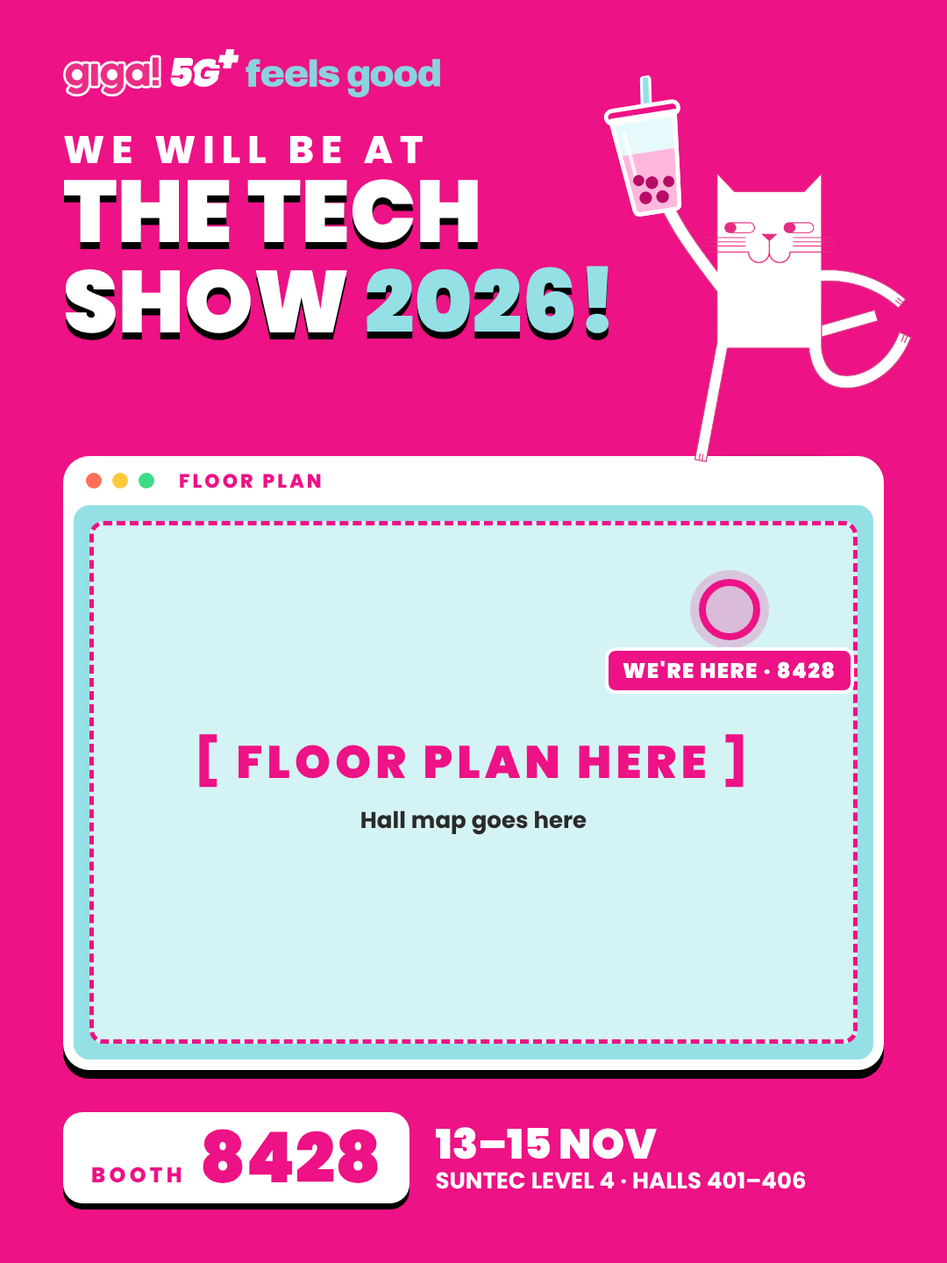
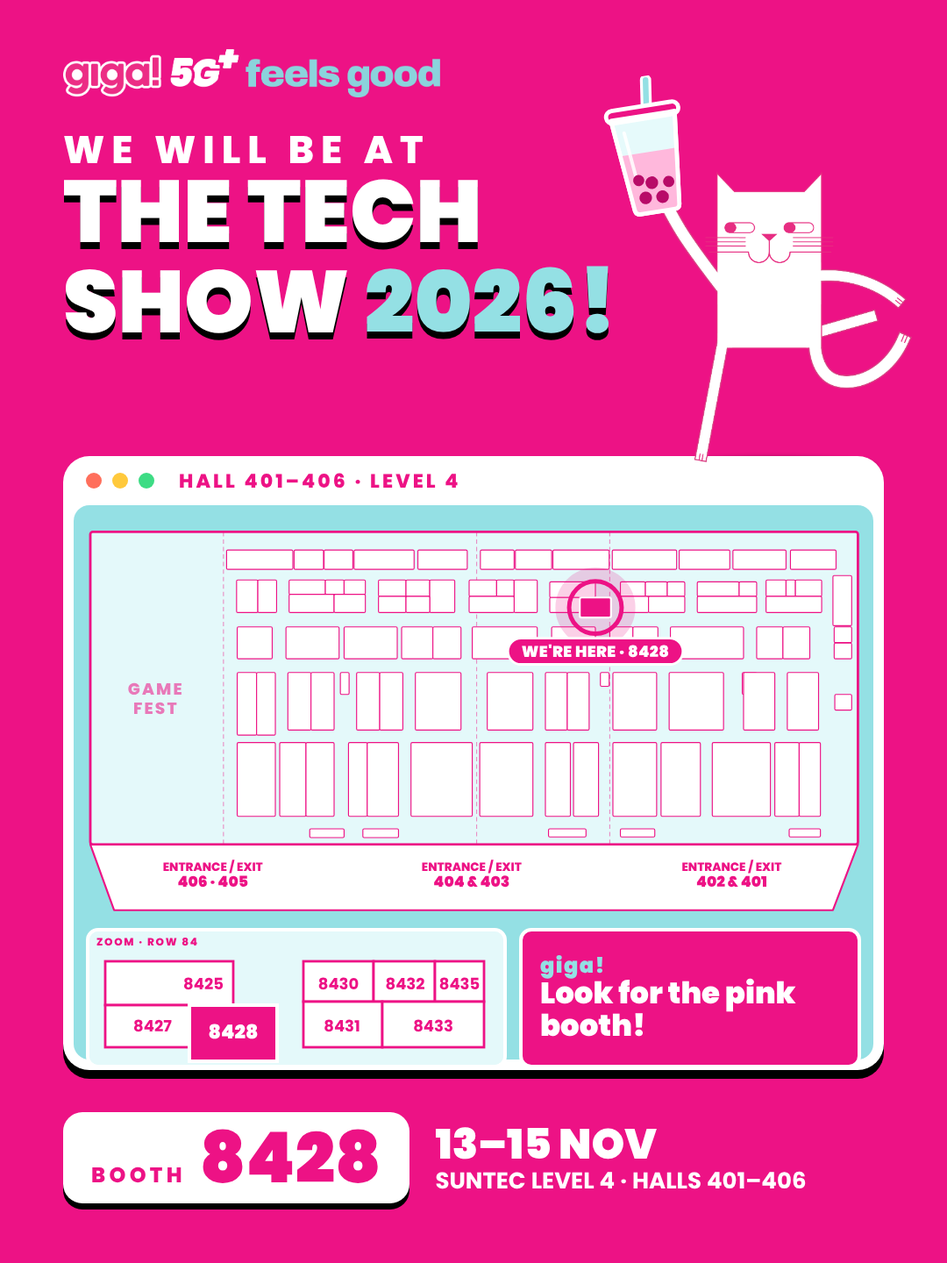
Post 1: redrawn Tech Show hall floor plan with booth 8428 highlighted and zoom inset
Claude-Session: https://claude.ai/code/session_01QpHBCYvf2HgUsT79rZy6ps

Changed region(s): [[0.0917, 0.375, 0.9167, 0.8438]]

diff --git a/giga-tech-show/post-1-find-us.html b/giga-tech-show/post-1-find-us.html
@@ -28,7 +28,15 @@ html,body{background:#ddd}
 .bar i{width:18px;height:18px;border-radius:50%;display:block}
 .bar i:nth-child(1){background:var(--coral)}.bar i:nth-child(2){background:#FFC93C}.bar i:nth-child(3){background:#3DDC84}
 .bar b{margin-left:16px;color:var(--pink);font-weight:800;font-size:22px;letter-spacing:.14em}
-.screen{position:absolute;left:12px;right:12px;top:56px;bottom:12px;background:var(--teal);border-radius:18px;display:flex;align-items:center;justify-content:center}
+.screen{position:absolute;left:12px;right:12px;top:56px;bottom:12px;background:var(--teal);border-radius:18px;padding:14px 14px 12px}
+.hall{display:block;width:100%;height:auto}
+.insetrow{display:flex;gap:14px;margin-top:12px}
+.inset{position:relative;width:480px;border-radius:14px;overflow:hidden;border:4px solid var(--white);background:#E4F9FA;line-height:0}
+.inset .zoom{width:100%;height:auto;display:block}
+.zt{position:absolute;left:8px;top:6px;line-height:1;font-weight:800;font-size:12px;letter-spacing:.14em;color:var(--pink);z-index:2}
+.legend{flex:1;background:var(--pink);color:var(--white);border-radius:14px;border:4px solid var(--white);display:flex;flex-direction:column;justify-content:center;padding:0 20px;font-weight:900;font-size:34px;line-height:1.1}
+.legend b{font-size:24px;letter-spacing:.06em;color:var(--teal)}
+.legend small{font-weight:700;font-size:20px;margin-top:6px}
 .ph{width:calc(100% - 36px);height:calc(100% - 36px);border:5px dashed var(--pink);border-radius:16px;background:rgba(255,255,255,.6);display:flex;flex-direction:column;align-items:center;justify-content:center;text-align:center;color:var(--pink)}
 .ph strong{font-weight:900;font-size:52px;letter-spacing:.1em}
 .ph span{font-weight:700;font-size:26px;color:#2a2a2a;margin-top:8px}
@@ -68,10 +76,117 @@ html,body{background:#ddd}
   </svg>
 
   <div class="window" data-placeholder="floor-plan">
-    <div class="bar"><i></i><i></i><i></i><b>FLOOR PLAN</b></div>
-    <div class="screen"><div class="ph"><strong>[ FLOOR PLAN HERE ]</strong><span>Hall map goes here</span></div></div>
+    <div class="bar"><i></i><i></i><i></i><b>HALL 401–406 · LEVEL 4</b></div>
+    <div class="screen">
+<svg class="hall" viewBox="55 62 1240 640" width="1240" height="640"><rect x="62" y="85" width="1228" height="500" fill="#E4F9FA" stroke="#ED1285" stroke-width="4" rx="4"/>
+<g stroke="#ED1285" stroke-width="1.6" stroke-dasharray="7 5" opacity=".45"><path d="M275 85V585M680 85V585M893 85V585"/></g>
+<text x="167" y="345" text-anchor="middle" font-family="Poppins" font-weight="800" font-size="26" letter-spacing="3" fill="#ED1285" opacity=".55">GAME</text><text x="167" y="376" text-anchor="middle" font-family="Poppins" font-weight="800" font-size="26" letter-spacing="3" fill="#ED1285" opacity=".55">FEST</text>
+<rect x="280" y="114" width="106" height="31" fill="#fff" stroke="#ED1285" stroke-width="1.6" rx="2"/>
+<rect x="388" y="114" width="47" height="31" fill="#fff" stroke="#ED1285" stroke-width="1.6" rx="2"/>
+<rect x="436" y="114" width="46" height="31" fill="#fff" stroke="#ED1285" stroke-width="1.6" rx="2"/>
+<rect x="484" y="114" width="96" height="31" fill="#fff" stroke="#ED1285" stroke-width="1.6" rx="2"/>
+<rect x="586" y="114" width="79" height="31" fill="#fff" stroke="#ED1285" stroke-width="1.6" rx="2"/>
+<rect x="686" y="114" width="54" height="31" fill="#fff" stroke="#ED1285" stroke-width="1.6" rx="2"/>
+<rect x="742" y="114" width="58" height="31" fill="#fff" stroke="#ED1285" stroke-width="1.6" rx="2"/>
+<rect x="802" y="114" width="90" height="31" fill="#fff" stroke="#ED1285" stroke-width="1.6" rx="2"/>
+<rect x="897" y="114" width="103" height="31" fill="#fff" stroke="#ED1285" stroke-width="1.6" rx="2"/>
+<rect x="1004" y="114" width="81" height="31" fill="#fff" stroke="#ED1285" stroke-width="1.6" rx="2"/>
+<rect x="1090" y="114" width="85" height="31" fill="#fff" stroke="#ED1285" stroke-width="1.6" rx="2"/>
+<rect x="1182" y="114" width="73" height="31" fill="#fff" stroke="#ED1285" stroke-width="1.6" rx="2"/>
+<rect x="296" y="162" width="34" height="52" fill="#fff" stroke="#ED1285" stroke-width="1.6" rx="2"/>
+<rect x="330" y="162" width="30" height="52" fill="#fff" stroke="#ED1285" stroke-width="1.6" rx="2"/>
+<rect x="380" y="162" width="58" height="23" fill="#fff" stroke="#ED1285" stroke-width="1.6" rx="2"/>
+<rect x="438" y="162" width="30" height="23" fill="#fff" stroke="#ED1285" stroke-width="1.6" rx="2"/>
+<rect x="468" y="162" width="34" height="23" fill="#fff" stroke="#ED1285" stroke-width="1.6" rx="2"/>
+<rect x="380" y="185" width="72" height="29" fill="#fff" stroke="#ED1285" stroke-width="1.6" rx="2"/>
+<rect x="452" y="185" width="50" height="29" fill="#fff" stroke="#ED1285" stroke-width="1.6" rx="2"/>
+<rect x="523" y="162" width="44" height="26" fill="#fff" stroke="#ED1285" stroke-width="1.6" rx="2"/>
+<rect x="567" y="162" width="38" height="26" fill="#fff" stroke="#ED1285" stroke-width="1.6" rx="2"/>
+<rect x="605" y="162" width="40" height="52" fill="#fff" stroke="#ED1285" stroke-width="1.6" rx="2"/>
+<rect x="523" y="188" width="44" height="26" fill="#fff" stroke="#ED1285" stroke-width="1.6" rx="2"/>
+<rect x="567" y="188" width="38" height="26" fill="#fff" stroke="#ED1285" stroke-width="1.6" rx="2"/>
+<rect x="668" y="162" width="44" height="26" fill="#fff" stroke="#ED1285" stroke-width="1.6" rx="2"/>
+<rect x="712" y="162" width="28" height="26" fill="#fff" stroke="#ED1285" stroke-width="1.6" rx="2"/>
+<rect x="740" y="162" width="37" height="52" fill="#fff" stroke="#ED1285" stroke-width="1.6" rx="2"/>
+<rect x="668" y="188" width="72" height="26" fill="#fff" stroke="#ED1285" stroke-width="1.6" rx="2"/>
+<rect x="797" y="165" width="73" height="25" fill="#fff" stroke="#ED1285" stroke-width="1.6" rx="2"/>
+<rect x="797" y="190" width="48" height="24" fill="#fff" stroke="#ED1285" stroke-width="1.6" rx="2"/>
+<rect x="910" y="165" width="40" height="23" fill="#fff" stroke="#ED1285" stroke-width="1.6" rx="2"/>
+<rect x="950" y="165" width="35" height="23" fill="#fff" stroke="#ED1285" stroke-width="1.6" rx="2"/>
+<rect x="985" y="165" width="28" height="23" fill="#fff" stroke="#ED1285" stroke-width="1.6" rx="2"/>
+<rect x="910" y="188" width="45" height="26" fill="#fff" stroke="#ED1285" stroke-width="1.6" rx="2"/>
+<rect x="955" y="188" width="58" height="26" fill="#fff" stroke="#ED1285" stroke-width="1.6" rx="2"/>
+<rect x="1033" y="165" width="67" height="23" fill="#fff" stroke="#ED1285" stroke-width="1.6" rx="2"/>
+<rect x="1100" y="165" width="28" height="23" fill="#fff" stroke="#ED1285" stroke-width="1.6" rx="2"/>
+<rect x="1033" y="188" width="95" height="26" fill="#fff" stroke="#ED1285" stroke-width="1.6" rx="2"/>
+<rect x="1143" y="162" width="32" height="26" fill="#fff" stroke="#ED1285" stroke-width="1.6" rx="2"/>
+<rect x="1175" y="162" width="15" height="26" fill="#fff" stroke="#ED1285" stroke-width="1.6" rx="2"/>
+<rect x="1190" y="162" width="42" height="26" fill="#fff" stroke="#ED1285" stroke-width="1.6" rx="2"/>
+<rect x="1143" y="188" width="89" height="26" fill="#fff" stroke="#ED1285" stroke-width="1.6" rx="2"/>
+<rect x="297" y="237" width="56" height="51" fill="#fff" stroke="#ED1285" stroke-width="1.6" rx="2"/>
+<rect x="375" y="237" width="85" height="51" fill="#fff" stroke="#ED1285" stroke-width="1.6" rx="2"/>
+<rect x="468" y="237" width="85" height="51" fill="#fff" stroke="#ED1285" stroke-width="1.6" rx="2"/>
+<rect x="560" y="237" width="50" height="51" fill="#fff" stroke="#ED1285" stroke-width="1.6" rx="2"/>
+<rect x="610" y="237" width="45" height="51" fill="#fff" stroke="#ED1285" stroke-width="1.6" rx="2"/>
+<rect x="673" y="237" width="104" height="51" fill="#fff" stroke="#ED1285" stroke-width="1.6" rx="2"/>
+<rect x="800" y="237" width="70" height="51" fill="#fff" stroke="#ED1285" stroke-width="1.6" rx="2"/>
+<rect x="893" y="237" width="37" height="51" fill="#fff" stroke="#ED1285" stroke-width="1.6" rx="2"/>
+<rect x="930" y="237" width="40" height="51" fill="#fff" stroke="#ED1285" stroke-width="1.6" rx="2"/>
+<rect x="990" y="237" width="117" height="51" fill="#fff" stroke="#ED1285" stroke-width="1.6" rx="2"/>
+<rect x="1128" y="237" width="42" height="51" fill="#fff" stroke="#ED1285" stroke-width="1.6" rx="2"/>
+<rect x="1170" y="237" width="43" height="51" fill="#fff" stroke="#ED1285" stroke-width="1.6" rx="2"/>
+<rect x="297" y="310" width="31" height="100" fill="#fff" stroke="#ED1285" stroke-width="1.6" rx="2"/>
+<rect x="328" y="310" width="30" height="100" fill="#fff" stroke="#ED1285" stroke-width="1.6" rx="2"/>
+<rect x="378" y="310" width="37" height="92" fill="#fff" stroke="#ED1285" stroke-width="1.6" rx="2"/>
+<rect x="415" y="310" width="37" height="92" fill="#fff" stroke="#ED1285" stroke-width="1.6" rx="2"/>
+<rect x="462" y="310" width="14" height="35" fill="#fff" stroke="#ED1285" stroke-width="1.6" rx="2"/>
+<rect x="488" y="310" width="37" height="92" fill="#fff" stroke="#ED1285" stroke-width="1.6" rx="2"/>
+<rect x="525" y="310" width="37" height="92" fill="#fff" stroke="#ED1285" stroke-width="1.6" rx="2"/>
+<rect x="582" y="310" width="73" height="92" fill="#fff" stroke="#ED1285" stroke-width="1.6" rx="2"/>
+<rect x="697" y="310" width="73" height="92" fill="#fff" stroke="#ED1285" stroke-width="1.6" rx="2"/>
+<rect x="790" y="310" width="35" height="92" fill="#fff" stroke="#ED1285" stroke-width="1.6" rx="2"/>
+<rect x="825" y="310" width="35" height="92" fill="#fff" stroke="#ED1285" stroke-width="1.6" rx="2"/>
+<rect x="878" y="310" width="14" height="22" fill="#fff" stroke="#ED1285" stroke-width="1.6" rx="2"/>
+<rect x="898" y="310" width="70" height="92" fill="#fff" stroke="#ED1285" stroke-width="1.6" rx="2"/>
+<rect x="988" y="310" width="87" height="92" fill="#fff" stroke="#ED1285" stroke-width="1.6" rx="2"/>
+<rect x="1105" y="310" width="23" height="35" fill="#fff" stroke="#ED1285" stroke-width="1.6" rx="2"/>
+<rect x="1107" y="310" width="50" height="92" fill="#fff" stroke="#ED1285" stroke-width="1.6" rx="2"/>
+<rect x="1177" y="310" width="50" height="92" fill="#fff" stroke="#ED1285" stroke-width="1.6" rx="2"/>
+<rect x="297" y="422" width="61" height="118" fill="#fff" stroke="#ED1285" stroke-width="1.6" rx="2"/>
+<rect x="365" y="422" width="42" height="118" fill="#fff" stroke="#ED1285" stroke-width="1.6" rx="2"/>
+<rect x="407" y="422" width="45" height="118" fill="#fff" stroke="#ED1285" stroke-width="1.6" rx="2"/>
+<rect x="475" y="422" width="30" height="118" fill="#fff" stroke="#ED1285" stroke-width="1.6" rx="2"/>
+<rect x="505" y="422" width="50" height="118" fill="#fff" stroke="#ED1285" stroke-width="1.6" rx="2"/>
+<rect x="575" y="422" width="98" height="118" fill="#fff" stroke="#ED1285" stroke-width="1.6" rx="2"/>
+<rect x="685" y="422" width="85" height="118" fill="#fff" stroke="#ED1285" stroke-width="1.6" rx="2"/>
+<rect x="790" y="422" width="40" height="118" fill="#fff" stroke="#ED1285" stroke-width="1.6" rx="2"/>
+<rect x="835" y="422" width="40" height="118" fill="#fff" stroke="#ED1285" stroke-width="1.6" rx="2"/>
+<rect x="898" y="422" width="70" height="118" fill="#fff" stroke="#ED1285" stroke-width="1.6" rx="2"/>
+<rect x="975" y="422" width="63" height="118" fill="#fff" stroke="#ED1285" stroke-width="1.6" rx="2"/>
+<rect x="1057" y="422" width="93" height="118" fill="#fff" stroke="#ED1285" stroke-width="1.6" rx="2"/>
+<rect x="1157" y="422" width="39" height="118" fill="#fff" stroke="#ED1285" stroke-width="1.6" rx="2"/>
+<rect x="1196" y="422" width="34" height="118" fill="#fff" stroke="#ED1285" stroke-width="1.6" rx="2"/>
+<rect x="413" y="560" width="55" height="14" fill="#fff" stroke="#ED1285" stroke-width="1.6" rx="2"/>
+<rect x="498" y="560" width="57" height="14" fill="#fff" stroke="#ED1285" stroke-width="1.6" rx="2"/>
+<rect x="795" y="560" width="60" height="13" fill="#fff" stroke="#ED1285" stroke-width="1.6" rx="2"/>
+<rect x="910" y="560" width="55" height="13" fill="#fff" stroke="#ED1285" stroke-width="1.6" rx="2"/>
+<rect x="1180" y="560" width="50" height="13" fill="#fff" stroke="#ED1285" stroke-width="1.6" rx="2"/>
+<rect x="1250" y="155" width="30" height="80" fill="#fff" stroke="#ED1285" stroke-width="1.6" rx="2"/>
+<rect x="1252" y="237" width="28" height="25" fill="#fff" stroke="#ED1285" stroke-width="1.6" rx="2"/>
+<rect x="1252" y="263" width="28" height="25" fill="#fff" stroke="#ED1285" stroke-width="1.6" rx="2"/>
+<rect x="1253" y="345" width="27" height="25" fill="#fff" stroke="#ED1285" stroke-width="1.6" rx="2"/>
+<path d="M62 585H1290L1250 690H100Z" fill="#fff" stroke="#ED1285" stroke-width="3" stroke-linejoin="round"/>
+<text x="258" y="627" text-anchor="middle" font-family="Poppins" font-weight="800" font-size="19" fill="#ED1285">ENTRANCE / EXIT</text><text x="258" y="652" text-anchor="middle" font-family="Poppins" font-weight="900" font-size="24" fill="#ED1285">406 · 405</text>
+<text x="672" y="627" text-anchor="middle" font-family="Poppins" font-weight="800" font-size="19" fill="#ED1285">ENTRANCE / EXIT</text><text x="672" y="652" text-anchor="middle" font-family="Poppins" font-weight="900" font-size="24" fill="#ED1285">404 & 403</text>
+<text x="1088" y="627" text-anchor="middle" font-family="Poppins" font-weight="800" font-size="19" fill="#ED1285">ENTRANCE / EXIT</text><text x="1088" y="652" text-anchor="middle" font-family="Poppins" font-weight="900" font-size="24" fill="#ED1285">402 & 401</text>
+<circle cx="870.0" cy="206.0" r="64" fill="#ED1285" opacity=".2"/>
+<circle cx="870.0" cy="206.0" r="42" fill="none" stroke="#ED1285" stroke-width="7"/>
+<rect x="845" y="190" width="50" height="32" fill="#ED1285" stroke="#fff" stroke-width="3" rx="3"/>
+<g transform="translate(870.0,276)"><rect x="-140" y="-21" width="280" height="42" rx="21" fill="#ED1285" stroke="#fff" stroke-width="4"/>
+<text x="0" y="9" text-anchor="middle" font-family="Poppins" font-weight="900" font-size="25" fill="#fff" letter-spacing=".5">WE'RE HERE · 8428</text></g></svg>
+<div class="insetrow"><div class="inset"><span class="zt">ZOOM · ROW 84</span><svg class="zoom" viewBox="788 148 236 76" width="708" height="228"><rect x="788" y="148" width="236" height="76" fill="#E4F9FA"/><rect x="797" y="165" width="73" height="25" fill="#fff" stroke="#ED1285" stroke-width="1.4"/><rect x="797" y="190" width="48" height="24" fill="#fff" stroke="#ED1285" stroke-width="1.4"/><rect x="910" y="165" width="40" height="23" fill="#fff" stroke="#ED1285" stroke-width="1.4"/><rect x="950" y="165" width="35" height="23" fill="#fff" stroke="#ED1285" stroke-width="1.4"/><rect x="985" y="165" width="28" height="23" fill="#fff" stroke="#ED1285" stroke-width="1.4"/><rect x="910" y="188" width="45" height="26" fill="#fff" stroke="#ED1285" stroke-width="1.4"/><rect x="955" y="188" width="58" height="26" fill="#fff" stroke="#ED1285" stroke-width="1.4"/><rect x="845" y="190" width="50" height="32" fill="#ED1285" stroke="#fff" stroke-width="2"/><text x="853" y="181" text-anchor="middle" font-family="Poppins" font-weight="700" font-size="9" fill="#ED1285">8425</text><text x="824" y="205" text-anchor="middle" font-family="Poppins" font-weight="700" font-size="9" fill="#ED1285">8427</text><text x="870" y="209" text-anchor="middle" font-family="Poppins" font-weight="900" font-size="11" fill="#fff">8428</text><text x="930" y="181" text-anchor="middle" font-family="Poppins" font-weight="700" font-size="9" fill="#ED1285">8430</text><text x="968" y="181" text-anchor="middle" font-family="Poppins" font-weight="700" font-size="9" fill="#ED1285">8432</text><text x="999" y="181" text-anchor="middle" font-family="Poppins" font-weight="700" font-size="9" fill="#ED1285">8435</text><text x="932" y="205" text-anchor="middle" font-family="Poppins" font-weight="700" font-size="9" fill="#ED1285">8431</text><text x="984" y="205" text-anchor="middle" font-family="Poppins" font-weight="700" font-size="9" fill="#ED1285">8433</text></svg></div><div class="legend"><b>giga!</b>Look for the pink booth!</div></div>
+</div>
   </div>
-  <div class="marker" id="booth-marker"><div class="ring"></div><div class="lbl">WE'RE HERE · 8428</div></div>
 
   <div class="strip">
     <div class="booth"><small>BOOTH</small><strong>8428</strong></div>

diff --git a/giga-tech-show/post-1-find-us-v9-placeholder.html b/giga-tech-show/post-1-find-us-v9-placeholder.html
@@ -1,0 +1,82 @@
+<!DOCTYPE html>
+<html lang="en">
+<head>
+<meta charset="UTF-8">
+<title>giga! x The Tech Show 2026 — Post 1: Find us</title>
+<style>
+@font-face{font-family:Poppins;font-weight:700;src:url(assets/fonts/Poppins-Bold.ttf)}
+@font-face{font-family:Poppins;font-weight:800;src:url(assets/fonts/Poppins-ExtraBold.ttf)}
+@font-face{font-family:Poppins;font-weight:900;src:url(assets/fonts/Poppins-Black.ttf)}
+:root{--pink:#ED1285;--teal:#94E0E4;--black:#000;--white:#fff;--coral:#FF6F5C}
+*{box-sizing:border-box;margin:0;padding:0}
+html,body{background:#ddd}
+.post{position:relative;width:1080px;height:1440px;overflow:hidden;background:var(--pink);font-family:Poppins,sans-serif;color:var(--white)}
+.logo{position:absolute;left:72px;top:56px;width:430px}
+
+.pre{position:absolute;left:72px;top:138px;font-weight:800;font-size:44px;letter-spacing:.18em}
+.headline{position:absolute;left:72px;top:190px;font-weight:900;font-size:100px;line-height:1.03;text-transform:uppercase;color:var(--white);text-shadow:0 8px 0 var(--black)}
+.headline span{display:block}
+.headline em{font-style:normal;color:var(--teal)}
+
+/* Gino: supplied pose, fully visible, standing on the window edge */
+.gino{position:absolute;left:740px;top:196px;width:300px;z-index:3}
+.shadow{position:absolute;left:760px;top:520px;width:240px;height:22px;border-radius:50%;background:rgba(0,0,0,.28);z-index:2;filter:blur(2px)}
+.bbt{position:absolute;left:703px;top:86px;width:96px;z-index:4;transform:rotate(-9deg);transform-origin:50% 100%}
+
+.window{position:absolute;left:72px;top:520px;width:936px;height:700px;z-index:2;background:var(--white);border-radius:30px;overflow:hidden;box-shadow:0 10px 0 var(--black)}
+.bar{height:56px;display:flex;align-items:center;gap:12px;padding-left:26px}
+.bar i{width:18px;height:18px;border-radius:50%;display:block}
+.bar i:nth-child(1){background:var(--coral)}.bar i:nth-child(2){background:#FFC93C}.bar i:nth-child(3){background:#3DDC84}
+.bar b{margin-left:16px;color:var(--pink);font-weight:800;font-size:22px;letter-spacing:.14em}
+.screen{position:absolute;left:12px;right:12px;top:56px;bottom:12px;background:var(--teal);border-radius:18px;display:flex;align-items:center;justify-content:center}
+.ph{width:calc(100% - 36px);height:calc(100% - 36px);border:5px dashed var(--pink);border-radius:16px;background:rgba(255,255,255,.6);display:flex;flex-direction:column;align-items:center;justify-content:center;text-align:center;color:var(--pink)}
+.ph strong{font-weight:900;font-size:52px;letter-spacing:.1em}
+.ph span{font-weight:700;font-size:26px;color:#2a2a2a;margin-top:8px}
+
+/* booth marker: move onto booth 8428 once the floor plan is in */
+.marker{position:absolute;left:690px;top:660px;z-index:4;text-align:center}
+.marker .ring{width:70px;height:70px;border-radius:50%;border:8px solid var(--pink);background:rgba(237,18,133,.25);margin:0 auto;box-shadow:0 0 0 10px rgba(237,18,133,.2)}
+.marker .lbl{margin-top:8px;background:var(--pink);color:var(--white);font-weight:900;font-size:24px;letter-spacing:.06em;padding:5px 16px;border-radius:12px;white-space:nowrap;border:4px solid var(--white)}
+
+.strip{position:absolute;left:72px;right:72px;top:1268px;display:flex;align-items:center;gap:30px}
+.booth{background:var(--white);color:var(--pink);border-radius:22px;padding:12px 32px;box-shadow:0 7px 0 var(--black);display:flex;align-items:baseline;gap:16px}
+.booth small{font-weight:800;font-size:24px;letter-spacing:.18em}
+.booth strong{font-weight:900;font-size:80px;line-height:1}
+.when{font-weight:900;font-size:48px;line-height:1.1;text-transform:uppercase}
+.when span{display:block;font-weight:700;font-size:26px}
+</style>
+</head>
+<body>
+<div class="post" id="post">
+  <img class="logo" src="assets/logo-lockup-onpink.png" alt="giga! 5G+ feels good">
+  <div class="pre">WE WILL BE AT</div>
+  <h1 class="headline"><span>The Tech</span><span>Show <em>2026!</em></span></h1>
+
+  <div class="shadow"></div>
+  <img class="gino" src="assets/gino-wave.png" alt="Gino waving">
+  <svg class="bbt" viewBox="0 0 120 200" aria-label="bubble tea">
+    <g stroke="#fff" stroke-width="6" stroke-linejoin="round" stroke-linecap="round">
+      <path d="M72 6L66 52" stroke="#fff" stroke-width="16"/>
+      <path d="M72 6L66 52" stroke="#94E0E4" stroke-width="8"/>
+      <path d="M14 56H106L92 188Q91 194 85 194H35Q29 194 28 188Z" fill="#E6FAFB"/>
+      <path d="M20 108H100L92 188Q91 194 85 194H35Q29 194 28 188Z" fill="#FFB8DC" stroke="none"/>
+      <rect x="8" y="42" width="104" height="18" rx="9" fill="#ED1285"/>
+      <path d="M30 76L38 150" stroke="#fff" stroke-width="5" opacity=".85"/>
+    </g>
+    <g fill="#B80B68"><circle cx="46" cy="172" r="9"/><circle cx="70" cy="174" r="9"/><circle cx="58" cy="152" r="9"/><circle cx="82" cy="154" r="8"/><circle cx="40" cy="146" r="8"/></g>
+    <path d="M14 56H106L92 188Q91 194 85 194H35Q29 194 28 188Z" fill="none" stroke="#fff" stroke-width="6" stroke-linejoin="round"/>
+  </svg>
+
+  <div class="window" data-placeholder="floor-plan">
+    <div class="bar"><i></i><i></i><i></i><b>FLOOR PLAN</b></div>
+    <div class="screen"><div class="ph"><strong>[ FLOOR PLAN HERE ]</strong><span>Hall map goes here</span></div></div>
+  </div>
+  <div class="marker" id="booth-marker"><div class="ring"></div><div class="lbl">WE'RE HERE · 8428</div></div>
+
+  <div class="strip">
+    <div class="booth"><small>BOOTH</small><strong>8428</strong></div>
+    <div class="when">13–15 Nov<span>Suntec Level 4 · Halls 401–406</span></div>
+  </div>
+</div>
+</body>
+</html>

diff --git a/giga-tech-show/tools/build_plan.py b/giga-tech-show/tools/build_plan.py
@@ -1,0 +1,76 @@
+"""Builds the redrawn hall floor plan (SVG) for The Tech Show 2026 from hand-read coordinates
+of the organiser's plan (source image px). Outputs assets/floorplan-hall.svg and assets/floorplan-zoom.svg."""
+PINK="#ED1285"; TEAL="#94E0E4"
+
+# (x0,y0,x1,y1)
+B=[]
+def b(x0,y0,x1,y1): B.append((x0,y0,x1,y1))
+# row 85xx
+for r in [(280,114,386,145),(388,114,435,145),(436,114,482,145),(484,114,580,145),(586,114,665,145),(686,114,740,145),(742,114,800,145),(802,114,892,145),(897,114,1000,145),(1004,114,1085,145),(1090,114,1175,145),(1182,114,1255,145)]: b(*r)
+# row 84xx
+for r in [(296,162,330,214),(330,162,360,214),
+          (380,162,438,185),(438,162,468,185),(468,162,502,185),(380,185,452,214),(452,185,502,214),
+          (523,162,567,188),(567,162,605,188),(605,162,645,214),(523,188,567,214),(567,188,605,214),
+          (668,162,712,188),(712,162,740,188),(740,162,777,214),(668,188,740,214),
+          (797,165,870,190),(797,190,845,214),
+          (910,165,950,188),(950,165,985,188),(985,165,1013,188),(910,188,955,214),(955,188,1013,214),
+          (1033,165,1100,188),(1100,165,1128,188),(1033,188,1128,214),
+          (1143,162,1175,188),(1175,162,1190,188),(1190,162,1232,188),(1143,188,1232,214)]: b(*r)
+# row 83xx
+for r in [(297,237,353,288),(375,237,460,288),(468,237,553,288),(560,237,610,288),(610,237,655,288),(673,237,777,288),(800,237,870,288),
+          (893,237,930,288),(930,237,970,288),(990,237,1107,288),(1128,237,1170,288),(1170,237,1213,288)]: b(*r)
+# row 82xx
+for r in [(297,310,328,410),(328,310,358,410),(378,310,415,402),(415,310,452,402),(462,310,476,345),(488,310,525,402),(525,310,562,402),
+          (582,310,655,402),(697,310,770,402),(790,310,825,402),(825,310,860,402),(878,310,892,332),(898,310,968,402),
+          (988,310,1075,402),(1105,310,1128,345),(1107,310,1157,402),(1177,310,1227,402)]: b(*r)
+# row 81xx
+for r in [(297,422,358,540),(365,422,407,540),(407,422,452,540),(475,422,505,540),(505,422,555,540),(575,422,673,540),(685,422,770,540),
+          (790,422,830,540),(835,422,875,540),(898,422,968,540),(975,422,1038,540),(1057,422,1150,540),(1157,422,1196,540),(1196,422,1230,540)]: b(*r)
+# slim bottom row + right column
+for r in [(413,560,468,574),(498,560,555,574),(795,560,855,573),(910,560,965,573),(1180,560,1230,573),
+          (1250,155,1280,235),(1252,237,1280,262),(1252,263,1280,288),(1253,345,1280,370)]: b(*r)
+
+OURS=(845,190,895,222)  # booth 8428
+
+def hall(extra=""):
+    s=[]
+    s.append(f'<rect x="62" y="85" width="1228" height="500" fill="#E4F9FA" stroke="{PINK}" stroke-width="4" rx="4"/>')
+    s.append('<g stroke="#ED1285" stroke-width="1.6" stroke-dasharray="7 5" opacity=".45"><path d="M275 85V585M680 85V585M893 85V585"/></g>')
+    s.append('<text x="167" y="345" text-anchor="middle" font-family="Poppins" font-weight="800" font-size="26" letter-spacing="3" fill="#ED1285" opacity=".55">GAME</text><text x="167" y="376" text-anchor="middle" font-family="Poppins" font-weight="800" font-size="26" letter-spacing="3" fill="#ED1285" opacity=".55">FEST</text>')
+    for (x0,y0,x1,y1) in B:
+        s.append(f'<rect x="{x0}" y="{y0}" width="{x1-x0}" height="{y1-y0}" fill="#fff" stroke="{PINK}" stroke-width="1.6" rx="2"/>')
+    # entrance band
+    s.append(f'<path d="M62 585H1290L1250 690H100Z" fill="#fff" stroke="{PINK}" stroke-width="3" stroke-linejoin="round"/>')
+    for (cx,lab,sub) in [(258,"ENTRANCE / EXIT","406 · 405"),(672,"ENTRANCE / EXIT","404 & 403"),(1088,"ENTRANCE / EXIT","402 & 401")]:
+        s.append(f'<text x="{cx}" y="627" text-anchor="middle" font-family="Poppins" font-weight="800" font-size="19" fill="{PINK}">{lab}</text>'
+                 f'<text x="{cx}" y="652" text-anchor="middle" font-family="Poppins" font-weight="900" font-size="24" fill="{PINK}">{sub}</text>')
+    s.append(extra)
+    return "\n".join(s)
+
+# our booth + callout (hall view)
+x0,y0,x1,y1=OURS; cx,cy=(x0+x1)/2,(y0+y1)/2
+ours=f'''<circle cx="{cx}" cy="{cy}" r="64" fill="{PINK}" opacity=".2"/>
+<circle cx="{cx}" cy="{cy}" r="42" fill="none" stroke="{PINK}" stroke-width="7"/>
+<rect x="{x0}" y="{y0}" width="{x1-x0}" height="{y1-y0}" fill="{PINK}" stroke="#fff" stroke-width="3" rx="3"/>
+<g transform="translate({cx},{y1+54})"><rect x="-140" y="-21" width="280" height="42" rx="21" fill="{PINK}" stroke="#fff" stroke-width="4"/>
+<text x="0" y="9" text-anchor="middle" font-family="Poppins" font-weight="900" font-size="25" fill="#fff" letter-spacing=".5">WE'RE HERE · 8428</text></g>'''
+
+full=f'<svg xmlns="http://www.w3.org/2000/svg" viewBox="55 62 1240 640" width="1240" height="640">{hall(ours)}</svg>'
+open('/home/user/uzen-tan/giga-tech-show/assets/floorplan-hall.svg','w').write(full)
+
+# zoom inset: row 84 around 8428 with booth numbers
+labs=[("8425",853,181),("8427",824,205),("8428",870,209),("8430",930,181),("8432",968,181),("8435",999,181),("8431",932,205),("8433",984,205)]
+zx0,zy0,zw,zh=788,148,236,76
+z=[f'<rect x="{zx0}" y="{zy0}" width="{zw}" height="{zh}" fill="#E4F9FA"/>']
+for (x0_,y0_,x1_,y1_) in B:
+    if x1_>zx0 and x0_<zx0+zw and y1_>zy0 and y0_<zy0+zh:
+        z.append(f'<rect x="{x0_}" y="{y0_}" width="{x1_-x0_}" height="{y1_-y0_}" fill="#fff" stroke="{PINK}" stroke-width="1.4"/>')
+ox0,oy0,ox1,oy1=OURS
+z.append(f'<rect x="{ox0}" y="{oy0}" width="{ox1-ox0}" height="{oy1-oy0}" fill="{PINK}" stroke="#fff" stroke-width="2"/>')
+for t,x,y in labs:
+    fill="#fff" if t=="8428" else PINK
+    wgt=900 if t=="8428" else 700
+    sz=11 if t=="8428" else 9
+    z.append(f'<text x="{x}" y="{y}" text-anchor="middle" font-family="Poppins" font-weight="{wgt}" font-size="{sz}" fill="{fill}">{t}</text>')
+open('/home/user/uzen-tan/giga-tech-show/assets/floorplan-zoom.svg','w').write(f'<svg xmlns="http://www.w3.org/2000/svg" viewBox="{zx0} {zy0} {zw} {zh}" width="{zw*3}" height="{zh*3}">{"".join(z)}</svg>')
+print(len(B),'booths')
